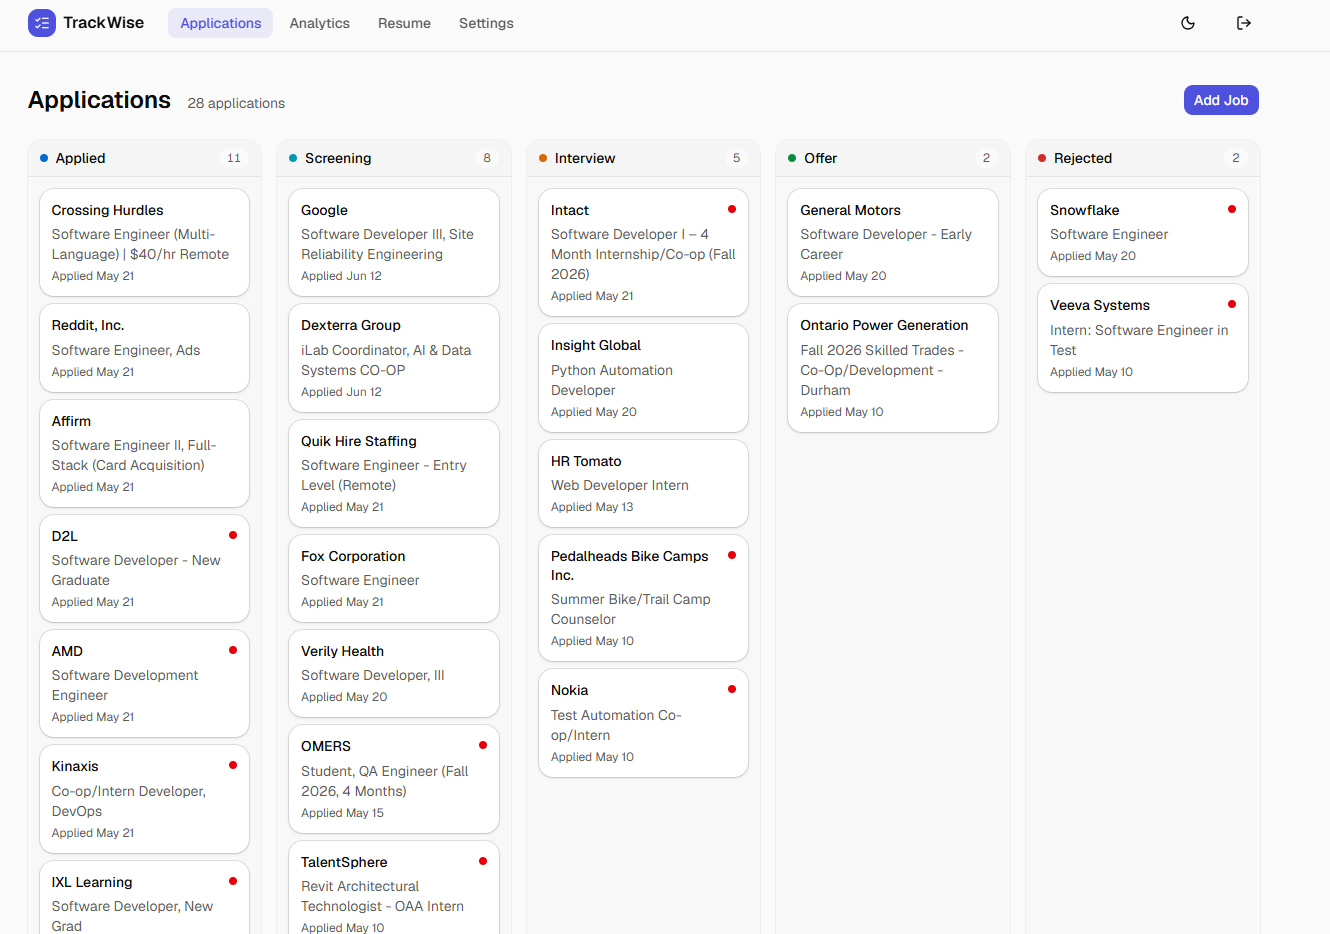
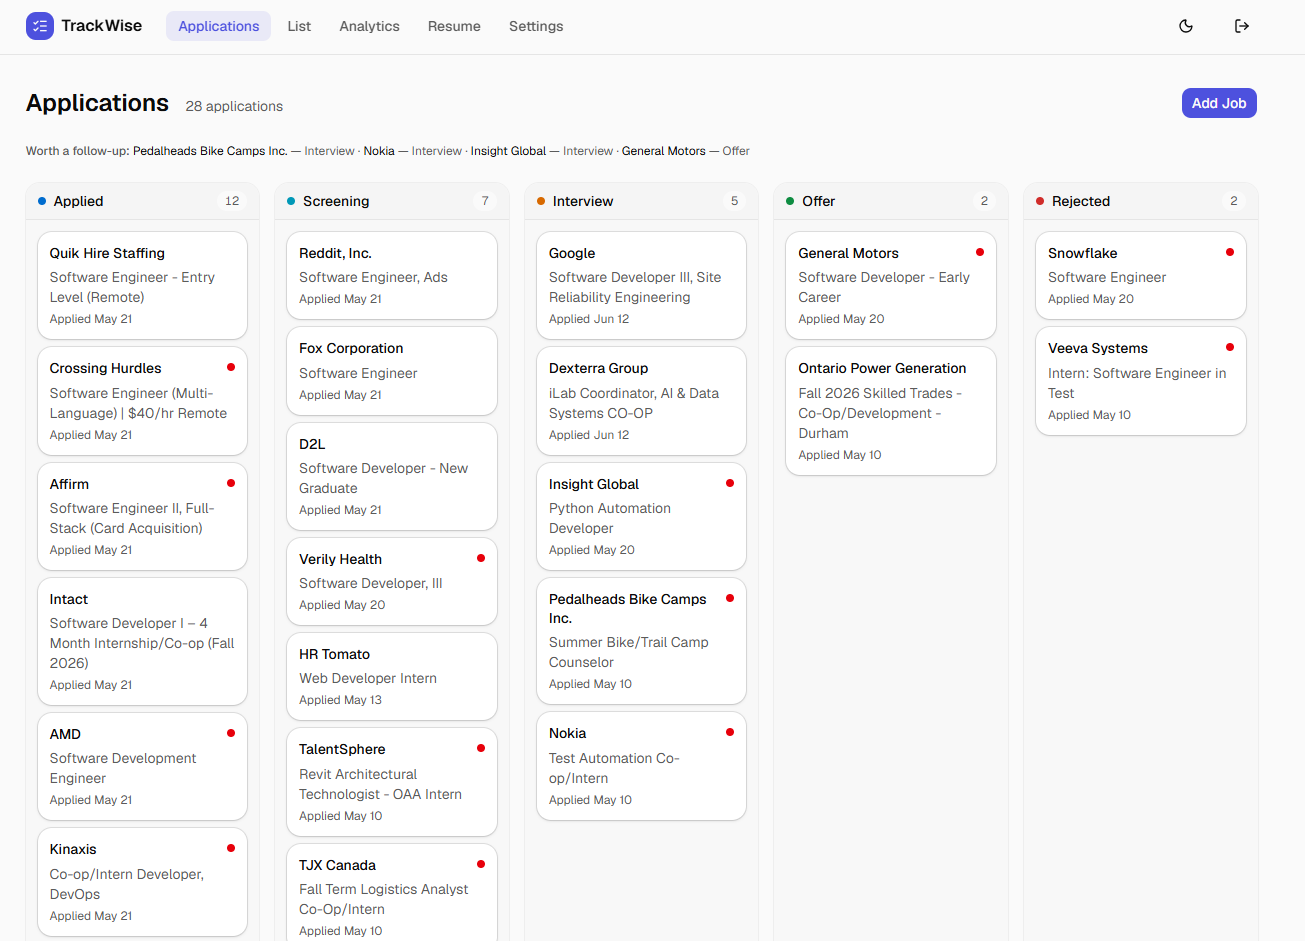
docs: reflect follow-up digest, volume chart, list view, and custom domain

diff --git a/TrackWise.md b/TrackWise.md
@@ -337,6 +337,7 @@ app/
   (app)/
     page.tsx                     # Kanban board (default landing)
     analytics/page.tsx           # Analytics dashboard
+    applications/page.tsx        # Searchable/filterable list of all applications
     applications/[id]/page.tsx   # Detail view + similar jobs
     resume/page.tsx              # Resume paste/upload + chunked embedding
     settings/page.tsx
@@ -350,12 +351,15 @@ Default landing page for authenticated users. Five columns map to the status enu
 
 Drag-and-drop between columns uses @dnd-kit/core. On drop, the card's new status is written to Postgres optimistically. The status-change trigger automatically inserts a row into `application_events`, requiring no client logic.
 
+A follow-up digest sits above the columns: a muted line listing warm threads that have gone quiet — applications in Interview or Offer not updated in more than seven days, sorted most-overdue first (capped at five, then `+N more`). Applied and Screening are excluded deliberately (early-stage or cold silence is the norm and a nudge rarely helps); the line renders only when the set is non-empty, so it never nags. It reuses the card's seven-day staleness definition from `lib/applications/stale.ts`.
+
 ### 5.4 Analytics page
 
-Four metrics in a single screen, with a date-range filter (last 30 days, 90 days, all time):
+A weekly application-volume trend plus four response-focused metrics in a single screen, with a date-range filter (last 30 days, 90 days, all time). All respect the active window:
 
 | Metric | Visualization | Data source |
 |---|---|---|
+| Application volume | Weekly bar chart (full-width, top) | Buckets `applications.applied_at` in the active window; empty weeks shown as zeros |
 | Response rate | Stat card with delta vs prior period | `v_response_rate` view |
 | Funnel by status | Horizontal bar / funnel chart | Aggregate of `applications.status` |
 | Time to first response | Histogram | `v_time_to_response` view |
@@ -513,6 +517,10 @@ as $$
 $$;
 ```
 
+### 5.7 Application list
+
+A flat, searchable view of every application at `/applications`, complementing the Kanban board for when the board stops being scannable. Case-insensitive text search over company, role, and location; status filter chips (toggle any of the five); and sortable columns (Company, Applied, Last updated), defaulting to newest-first. Rows link to the detail view. Client-side filter/sort over the server-fetched rows — no new query, no pagination (fine into the hundreds; revisit at thousands).
+
 ---
 
 ## 6. Security
@@ -588,7 +596,7 @@ trackwise/
 
 ### 7.2 Dashboard
 
-Deploys to Vercel via GitHub integration. Pushes to `main` trigger production deploys. Environment variables (`NEXT_PUBLIC_SUPABASE_URL`, `NEXT_PUBLIC_SUPABASE_ANON_KEY`) are set in the Vercel dashboard.
+Deploys to Vercel via GitHub integration. Pushes to `main` trigger production deploys. Served from the custom domain `trackwise.bandonc.com` (Cloudflare CNAME to Vercel, DNS-only); the auto-generated `*.vercel.app` URL stays live as a fallback, and both hosts are in Supabase Auth's redirect allowlist. Environment variables (`NEXT_PUBLIC_SUPABASE_URL`, `NEXT_PUBLIC_SUPABASE_ANON_KEY`, `NEXT_PUBLIC_SITE_URL`) are set in the Vercel dashboard. `NEXT_PUBLIC_SITE_URL` is the OAuth `redirectTo` base and the only value pinned to the domain — the `/auth/callback` route self-heals off request origin, so both hosts work for sign-in.
 
 ### 7.3 Extension
 
@@ -695,6 +703,11 @@ Lightweight decision log. Each entry is the choice made and the reason in one or
 - **`last_updated_at` bumps only on user-facing changes** (2026-06-11). The status-change trigger previously refreshed it on every update, so machine writes (embedding write-back, fit-score cache on detail view, cluster recompute) silently reset the kanban's stale indicators. The trigger now diffs OLD/NEW as jsonb with system columns removed. New machine-written columns must be added to the trigger's `system_cols` list.
 - **Per-user write bounds on top of RLS** (2026-06-11). Length CHECKs on all client-writable text columns, insert quotas (applications ≤ 5000, resumes ≤ 20), and `resume_chunks` client writes revoked — see §6.7. RLS isolates users from each other; these bound what a hostile or buggy client can do to its own account's storage.
 - **Extension fit cache keyed on parser-derived job id, not URL** (2026-06-12, v1.0.2). LinkedIn/Indeed search-page URLs churn unrelated query params while showing the same posting, so URL keying re-scored the same job per variant. Parsers expose `jobKey(url)` (`linkedin:<id>` / `indeed:<jk>`); the background falls back to the full href when no id extracts — deliberately not query-stripped, since search-page paths are identical across jobs.
+- **Dashboard moved to a custom domain** (`trackwise.bandonc.com`, 2026-07-10). Chose a subdomain over the apex (`bandonc.com` reserved for a future portfolio); Cloudflare CNAME to Vercel, DNS-only. The only domain-coupled code is `NEXT_PUBLIC_SITE_URL` (the OAuth `redirectTo` base) — `/auth/callback` self-heals off request origin, the extension auths via `chromiumapp.org`, and Google OAuth points at the Supabase project URL, so none of those change with the dashboard domain. The `*.vercel.app` URL is kept live as a fallback (both hosts in the Supabase Auth allowlist); dropping the domain later means reverting `SITE_URL` and scrubbing the two Supabase Auth entries before the name expires.
+- **`signInWithGoogle` throws on a missing `NEXT_PUBLIC_SITE_URL`** (2026-07-09). Fail loud instead of building `redirectTo: "undefined/auth/callback"` and hitting an opaque Supabase "redirect not allowed" error at runtime.
+- **Follow-up digest scoped to Interview + Offer** (2026-07-10). A board-top muted line for warm threads gone quiet (>7 days). Applied and Screening are excluded on purpose — like a cold application, early-stage silence is the norm and a nudge rarely helps; after an interview it does. Renders only when non-empty so it never nags. Reuses the card's 7-day staleness, extracted to `lib/applications/stale.ts` so the two can't drift.
+- **Weekly application-volume chart on Analytics** (2026-07-10). Full-width bars at the top, one per UTC-aligned week, empty weeks as zeros. Reuses the `v_response_rate` rows the page already fetches (window-filtered) — no new query or view. Respects the range filter; "all time" starts at the earliest application.
+- **Searchable application list at `/applications`** (2026-07-10). Client-side search/filter/sort over server-fetched rows; the scalable complement to the board, kept independent of the digest's `stale.ts` so it merges on its own. Shipped with `scrollbar-gutter: stable` in `globals.css` to kill filter-induced layout shift (centered content jumping as the row count toggles the scrollbar) — a global fix that steadies every page.
 
 ---
 

diff --git a/README.md b/README.md
@@ -7,7 +7,7 @@ Most trackers treat the application list as the primary artifact and bolt analyt
 
 ![TrackWise Kanban board](./docs/screenshots/01-kanban.png)
 
-> **Status:** Completed. Dashboard live on Vercel; Chrome extension published on the [Chrome Web Store](https://chromewebstore.google.com/detail/trackwise/ljmiflnipemagmaihpfnmpmbdbjehenm) (unlisted — installable via that link). See [Privacy Policy](https://trackwise-lac-nu.vercel.app/privacy).
+> **Status:** Completed. Dashboard live at [trackwise.bandonc.com](https://trackwise.bandonc.com); Chrome extension published on the [Chrome Web Store](https://chromewebstore.google.com/detail/trackwise/ljmiflnipemagmaihpfnmpmbdbjehenm) (unlisted — installable via that link). See [Privacy Policy](https://trackwise.bandonc.com/privacy).
 
 ## Why this exists
 
@@ -26,12 +26,13 @@ Existing trackers (Huntr, Teal, Simplify) treat the application list as the arti
 - **"Check fit" overlay** — alongside Save, a Check-fit button shows how the current page matches your history and your resume without leaving the site. Scores are cached for 24h per job posting.
 
 ### Track
-- **Kanban board** — five-column drag-and-drop (Applied → Screening → Interview → Offer → Rejected) with stale-application indicators.
+- **Kanban board** — five-column drag-and-drop (Applied → Screening → Interview → Offer → Rejected) with stale-application indicators, and a follow-up digest above the board that flags Interview/Offer threads gone quiet for over a week.
+- **Application list** — a searchable, filterable, sortable table of every application at `/applications`, for when the board gets crowded.
 - **Editable notes and JD** — inline editing on the application detail page, saved via server actions. Editing the role, company, notes, or JD re-fires the embedding chain.
 - **CSV export** — one-click export of all your applications from the dashboard.
 
 ### Learn
-- **Analytics page** — response rate, funnel by status, time-to-response histogram, response rate by source. Date-range filter.
+- **Analytics page** — a weekly application-volume trend plus response rate, funnel by status, time-to-response histogram, and response rate by source. Date-range filter.
 - **Cluster analytics** — K-means over embeddings groups your applications into clusters labelled by the top companies in each, with per-cluster response rates. Recompute on demand.
 - **Semantic similarity** — each application is embedded by Voyage AI (`voyage-3`, 1024 dims) and matched against your others via pgvector cosine search. Burst rate-limit failures are retried automatically with exponential backoff.
 - **Resume fit** — paste or upload a resume (PDF/DOCX text-extracted in-browser). Section-level chunks are embedded; the top candidates per job go through Claude Haiku for a 0-100 score with a one-sentence reason. Fallback chain Haiku → Voyage rerank-2.5 → raw cosine ensures the card always renders. Results cache per (application, resume) pair.
@@ -42,10 +43,16 @@ Existing trackers (Huntr, Teal, Simplify) treat the application list as the arti
 ## Screenshots
 
 ### Analytics
-![Analytics page with response rate, funnel, time-to-response, and source breakdown](./docs/screenshots/02-analytics.png)
+Weekly application-volume trend, response rate, and funnel by status up top; time-to-first-response, response rate by source, and per-cluster response rate below. Date-range filter (shown on "All time").
 
-### Cluster analytics
-![Response-rate-by-cluster card with three K-means clusters labelled by their top companies](./docs/screenshots/06-clusters.png)
+![Analytics page top: application-volume chart, response rate, and funnel by status](./docs/screenshots/02-analytics.png)
+
+![Analytics page continued: time-to-first-response histogram, response rate by source, and response rate by cluster](./docs/screenshots/10-analytics-detail.png)
+
+### Application list
+Searchable, filterable, sortable table of every application; rows link to the detail view.
+
+![Searchable application list with status filter chips and sortable columns](./docs/screenshots/09-list.png)
 
 ### Application detail
 Resume fit score with one-sentence reasoning, collapsible job description, status history, and Similar applications by cosine band.

diff --git a/apps/dashboard/CLAUDE.md b/apps/dashboard/CLAUDE.md
@@ -31,6 +31,7 @@ app/
   (app)/                     # Auth-guarded by the proxy.
     page.tsx                 # Kanban board, default landing.
     analytics/page.tsx
+    applications/page.tsx    # Searchable/filterable list of all applications.
     applications/[id]/page.tsx
     resume/page.tsx          # Resume paste/upload + chunked embedding.
     settings/page.tsx
